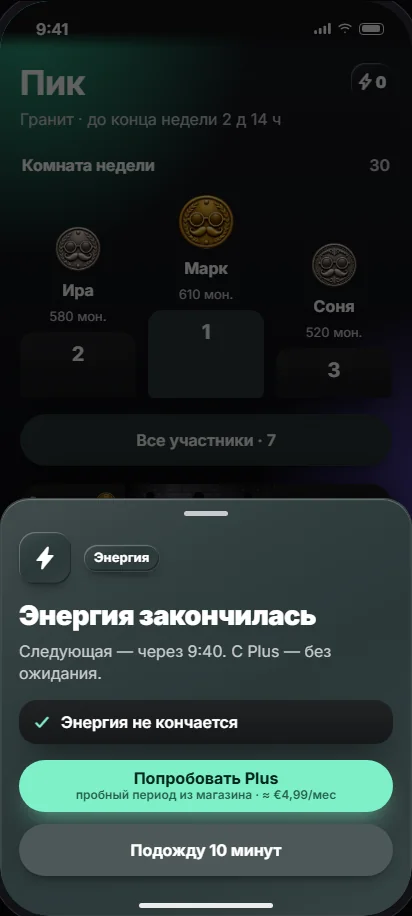
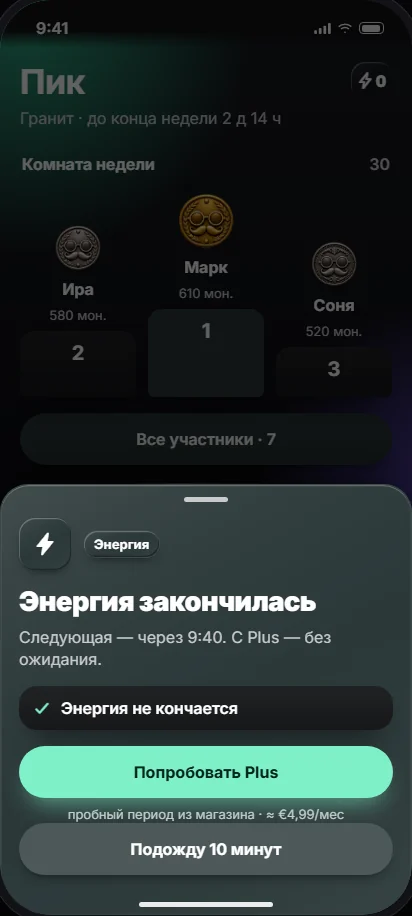
docs(mockups): m22 «Энергия закончилась» — цена подписью под кнопкой, кнопка в одну строку (+ кадры эталона)
Длинные тексты 15.10: кнопка «Попробовать Plus · пробный период из магазина · ≈ €4,99/мес» уходила в 2 строки уже на ru
(360 pt ×1.15); координатор: m22-A — Дизайну. Кнопка — один глагол, цена 13/17 secondary под ней. Разметка 0 ошибок;
длинные тексты m22 — 0 находок; кадры m22 пересняты (старые — etalon_v3_backup_m22_0950).

Governance-ID: TG-8A9FEDFFF843

diff --git a/docs/design/v2-app/engagement-moments-app.js b/docs/design/v2-app/engagement-moments-app.js
@@ -111,10 +111,11 @@
     <div class="sf" style="margin-top:12px;padding:18px"><div class="ov">Задания</div>${(o.goals || ['Заказать капучино', 'Выбрать размер', 'Спросить цену']).map((g, i) => `<div style="display:flex;align-items:center;gap:12px;padding:11px 0;font-size:16px;${i ? 'box-shadow:inset 0 1px 0 var(--line)' : ''}"><span style="width:26px;height:26px;border-radius:13px;background:var(--control);display:inline-flex;align-items:center;justify-content:center;font-size:13px;font-weight:700;flex:none">${i + 1}</span>${g}</div>`).join('')}</div>
     <div class="dock"><div class="cta">Начать диалог<span class="ar">${io('arrowR', 20)}</span></div></div>`;
   /* ---------- пейвол Plus (единый, D115): шторка контекста ---------- */
+  // зачем (длинные тексты 15.10, координатор: m22-A — Дизайну): кнопка — один короткий глагол, цена/пробный — подписью 13/17 под кнопкой; раньше кнопка с ценой уходила в 2 строки уже на ru при 360 pt ×1.15
   const plusSheet = (o = {}) => `<div class="dim"></div><div class="sheet"><div class="grab"></div><div class="fl" style="gap:12px"><span class="tile" style="width:52px;height:52px;border-radius:16px;background:var(--control);display:inline-flex;align-items:center;justify-content:center;box-shadow:var(--sh2)">${io(o.icon || 'flash', 24)}</span><span class="chip lvl">${o.ctx || 'Энергия'}</span></div>
     <div class="h-md" style="margin-top:16px;font-size:27px;line-height:32px">${o.title || 'Энергия закончилась'}</div><div class="p" style="margin-top:8px">${o.sub || 'Plus — занятия без ожидания энергии.'}</div>
     <div class="sf" style="margin-top:16px;padding:12px 14px;display:flex;align-items:center;gap:10px;font-size:16px;font-weight:600">${io('check', 18, 'color:var(--acc)')}${o.benefit || 'Энергия не кончается'}</div>
-    <div class="cta" style="margin-top:16px"><span class="two">${o.cta || 'Попробовать Plus'}<span class="sub">${o.fine || 'пробный период из магазина · ≈ €4,99/мес'}</span></span></div>${o.secondary ? `<div class="cta ghost">${o.secondary}</div>` : ''}</div>`;
+    <div class="cta" style="margin-top:16px">${o.cta || 'Попробовать Plus'}</div><div style="margin-top:8px;font-size:13px;line-height:17px;color:var(--sc);text-align:center">${o.fine || 'пробный период из магазина · ≈ €4,99/мес'}</div>${o.secondary ? `<div class="cta ghost">${o.secondary}</div>` : ''}</div>`;
 
   // прокрутка Главной: блок «Сегодня» целиком над панелью вкладок (низ панели 14, высота 66, запас 12) — как прокрученный экран
   const fitHome = (root = document) => root.querySelectorAll('[data-home-scroll]').forEach((sc) => { const ph = sc.closest('.em-ph, .ph2, .ph'); const slot = sc.querySelector('[data-today-slot]'); if (!ph || !slot) return; sc.style.transform = ''; const P = ph.getBoundingClientRect(); const over = slot.getBoundingClientRect().bottom - (P.top + P.height - 14 - 66 - 12); if (over > 0) sc.style.transform = `translateY(${-Math.ceil(over)}px)`; });
